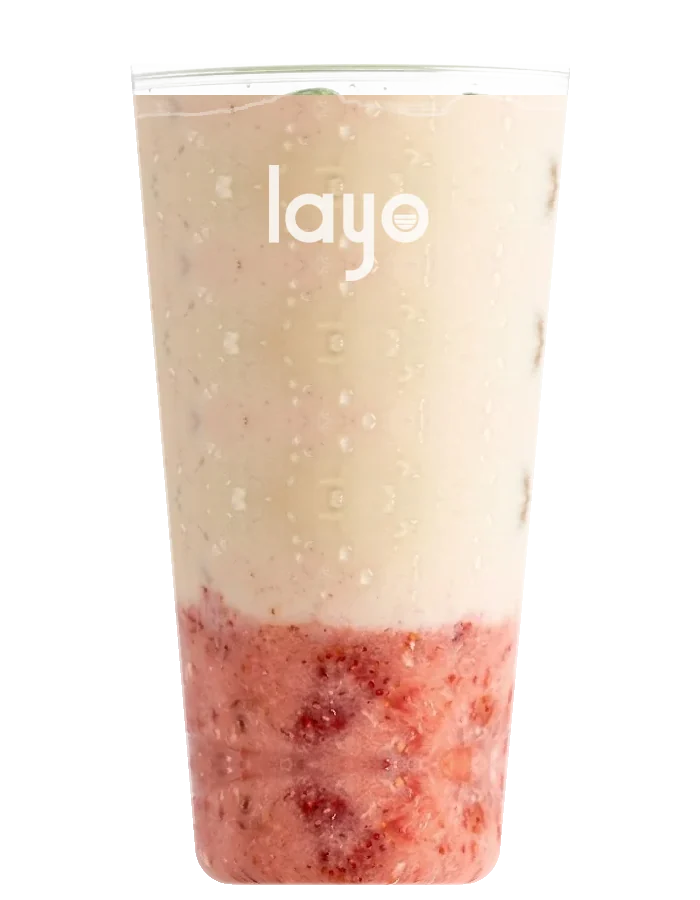
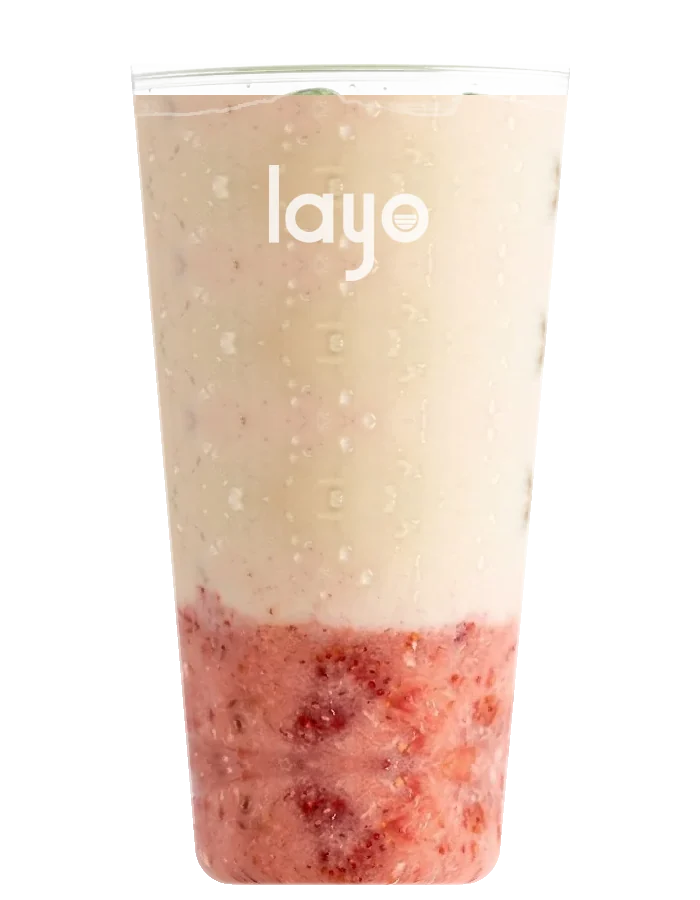
Layo: clean mango/other cup walls; aligned favourite cards; rule
Claude-Session: https://claude.ai/code/session_01UTJuAjWUwzzxbHTx65gk4g

diff --git a/projects/matcha/site/index.html b/projects/matcha/site/index.html
@@ -130,7 +130,9 @@ button{font:inherit;color:inherit;cursor:pointer;-webkit-tap-highlight-color:tra
 #mineList button i{width:12px;height:28px;border-radius:6px;background:linear-gradient(var(--a) 0 33%,var(--b) 33% 66%,var(--c) 66%)}#mineList button small{color:var(--ink2);font-size:12px}
 .savebtn{width:48px;height:48px;flex:none;border-radius:50%;border:0;background:#f5f0e61f;color:var(--rice);display:grid;place-items:center;transition:background-color .3s}.savebtn svg{width:20px;height:20px}.savebtn.on svg{fill:var(--berry);stroke:var(--berry)}
 /* ---------- favourites ---------- */
-.favs{display:grid;grid-template-columns:repeat(4,1fr);gap:14px;margin-top:64px}.favs .acts{flex-wrap:wrap}
+.favs{display:grid;grid-template-columns:repeat(4,1fr);gap:14px;margin-top:64px}
+/* every card: same title band, text fills, buttons on one baseline */
+.fav .body{flex:1;display:flex;flex-direction:column;gap:18px}.fav .top{height:50px;align-items:flex-start}.fav .top b{font-size:22px}.fav p{flex:1}.fav .acts{margin-top:auto;flex-wrap:nowrap}.fav .acts .btn{padding:0 14px;font-size:14px}
 .fav{border-radius:var(--r);overflow:hidden;background:var(--card);display:flex;flex-direction:column}
 .fav .ph{position:relative;aspect-ratio:4/4.4;display:grid;place-items:end center;overflow:hidden}
 .fav .ph img{width:62%;height:auto;transform:translateY(6%);transition:transform .9s var(--ease)}

diff --git a/projects/matcha/site/index.tpl.html b/projects/matcha/site/index.tpl.html
@@ -130,7 +130,9 @@ button{font:inherit;color:inherit;cursor:pointer;-webkit-tap-highlight-color:tra
 #mineList button i{width:12px;height:28px;border-radius:6px;background:linear-gradient(var(--a) 0 33%,var(--b) 33% 66%,var(--c) 66%)}#mineList button small{color:var(--ink2);font-size:12px}
 .savebtn{width:48px;height:48px;flex:none;border-radius:50%;border:0;background:#f5f0e61f;color:var(--rice);display:grid;place-items:center;transition:background-color .3s}.savebtn svg{width:20px;height:20px}.savebtn.on svg{fill:var(--berry);stroke:var(--berry)}
 /* ---------- favourites ---------- */
-.favs{display:grid;grid-template-columns:repeat(4,1fr);gap:14px;margin-top:64px}.favs .acts{flex-wrap:wrap}
+.favs{display:grid;grid-template-columns:repeat(4,1fr);gap:14px;margin-top:64px}
+/* every card: same title band, text fills, buttons on one baseline */
+.fav .body{flex:1;display:flex;flex-direction:column;gap:18px}.fav .top{height:50px;align-items:flex-start}.fav .top b{font-size:22px}.fav p{flex:1}.fav .acts{margin-top:auto;flex-wrap:nowrap}.fav .acts .btn{padding:0 14px;font-size:14px}
 .fav{border-radius:var(--r);overflow:hidden;background:var(--card);display:flex;flex-direction:column}
 .fav .ph{position:relative;aspect-ratio:4/4.4;display:grid;place-items:end center;overflow:hidden}
 .fav .ph img{width:62%;height:auto;transform:translateY(6%);transition:transform .9s var(--ease)}

diff --git a/tools/build_live.py b/tools/build_live.py
@@ -110,10 +110,10 @@ def to_ref(F, k):
         l,r=RW[y]; sl,sr=Gw[sy]; sl+=10; sr-=10
         xs=np.linspace(sl,sr,r-l+1).astype(int); G[y,l:r+1,:3]=Gi[sy,xs,:3]
     # and the same for a pale strip along the walls in the lower half
-    for y in range((RT+RB)//2, B0):
+    for y in range(RT+40, B0):
         if RW[y] is None: continue
         l,r=RW[y]; w=r-l
-        xs=np.linspace(l+10,r-10,w+1).astype(int); G[y,l:r+1,:3]=Gi[y,xs,:3]
+        xs=np.linspace(l+14,r-14,w+1).astype(int); G[y,l:r+1,:3]=Gi[y,xs,:3]
     f=lambda y:int(RT+(y-t)*(RB-RT)/(b-t)); return G, tuple(f(v) for v in BANDS[k])
 for k,p in SRC.items():
     F,BK=to_ref(clean(np.asarray(Image.open(p).convert('RGBA'))),k); Fw=walls(F)

diff --git a/skills/premium-wow-design/references/taste.md b/skills/premium-wow-design/references/taste.md
@@ -161,3 +161,7 @@
 - Каждый экран (особенно первый) строится по реальному образцу из нашего Figma-кита (файл Cc4CPMe2dcfGsX6PGYLBbo, страница «Сайты: Ч/Б ↔ цвет»: Ampora, Ondera, Smash Burger, Formo Club, Zumi, Lomora, Haven, Metora и др.) или из работ HorizonX — по тому же принципу раскладки, с нашим контентом. Не придумывать раскладку «из головы».
 - Перед каркасом открыть образцы в Figma (get_screenshot), назвать основу для каждого варианта клиенту.
 - Первый экран — показывать 3 варианта на разных образцах + десктоп и мобайл.
+
+## Карточки в ряд — всё на одной линии (Layo)
+- В ряду карточек заголовки, текст и кнопки стоят на одинаковых уровнях, даже если название переносится на 2 строки: фиксированная высота блока заголовка, текст растягивается (flex:1), кнопки прижаты вниз (margin-top:auto), кнопки не переносятся.
+- Проверять скриптом: top заголовка, текста и кнопок у всех карточек ряда должен совпадать до пикселя.
